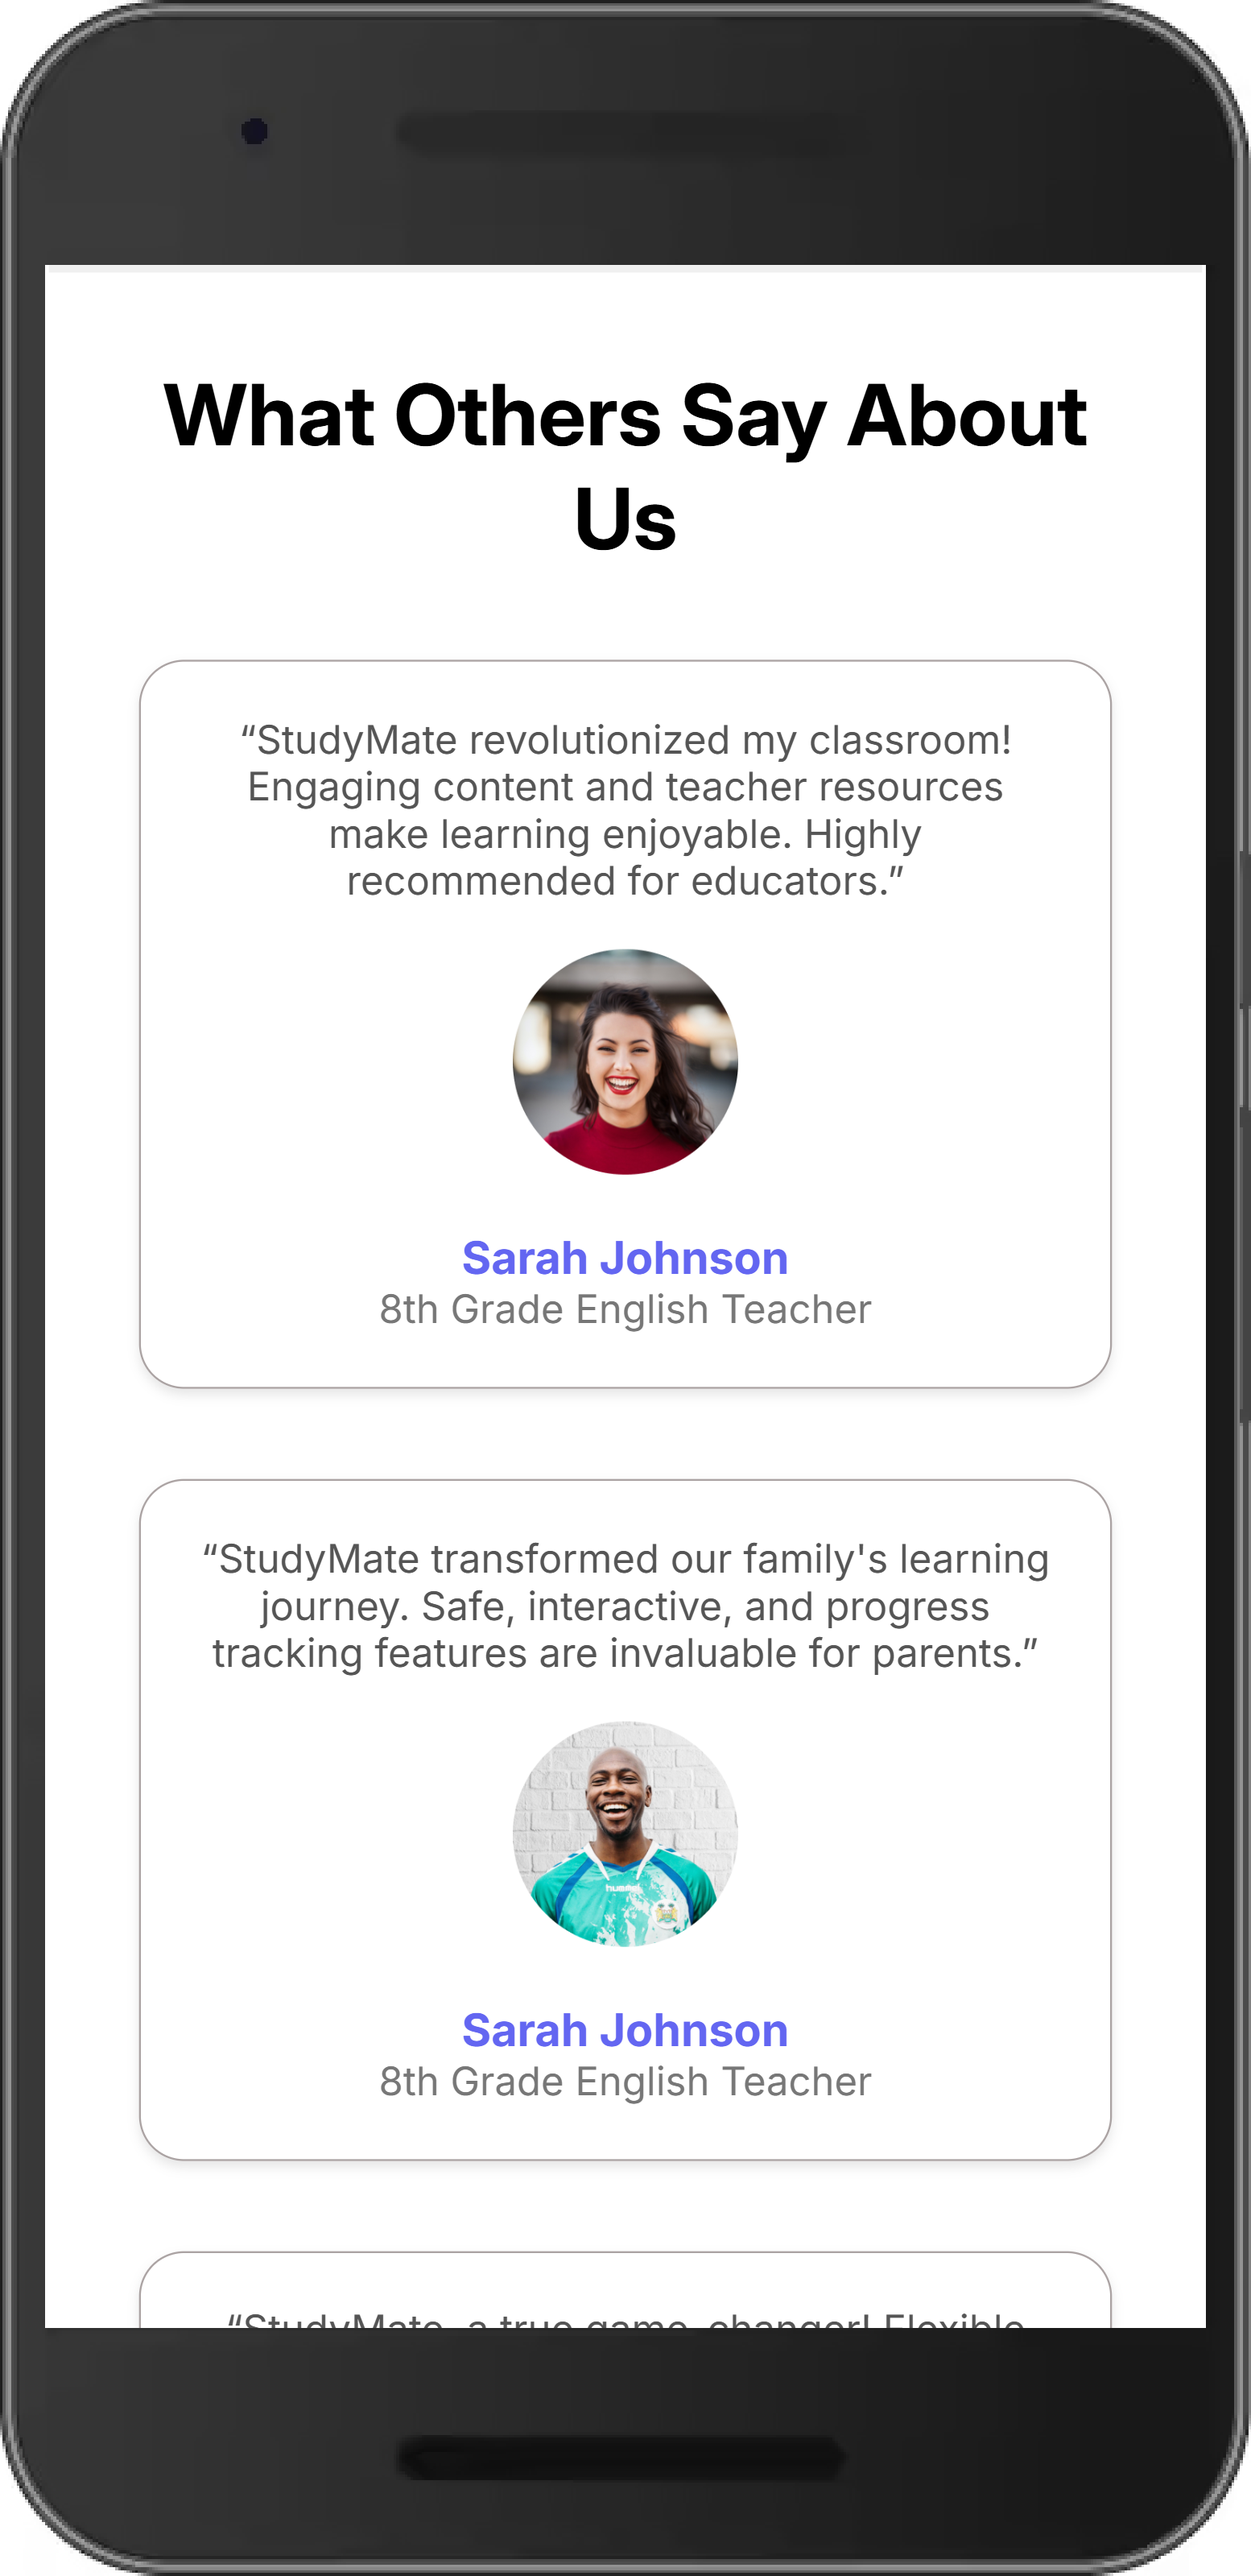
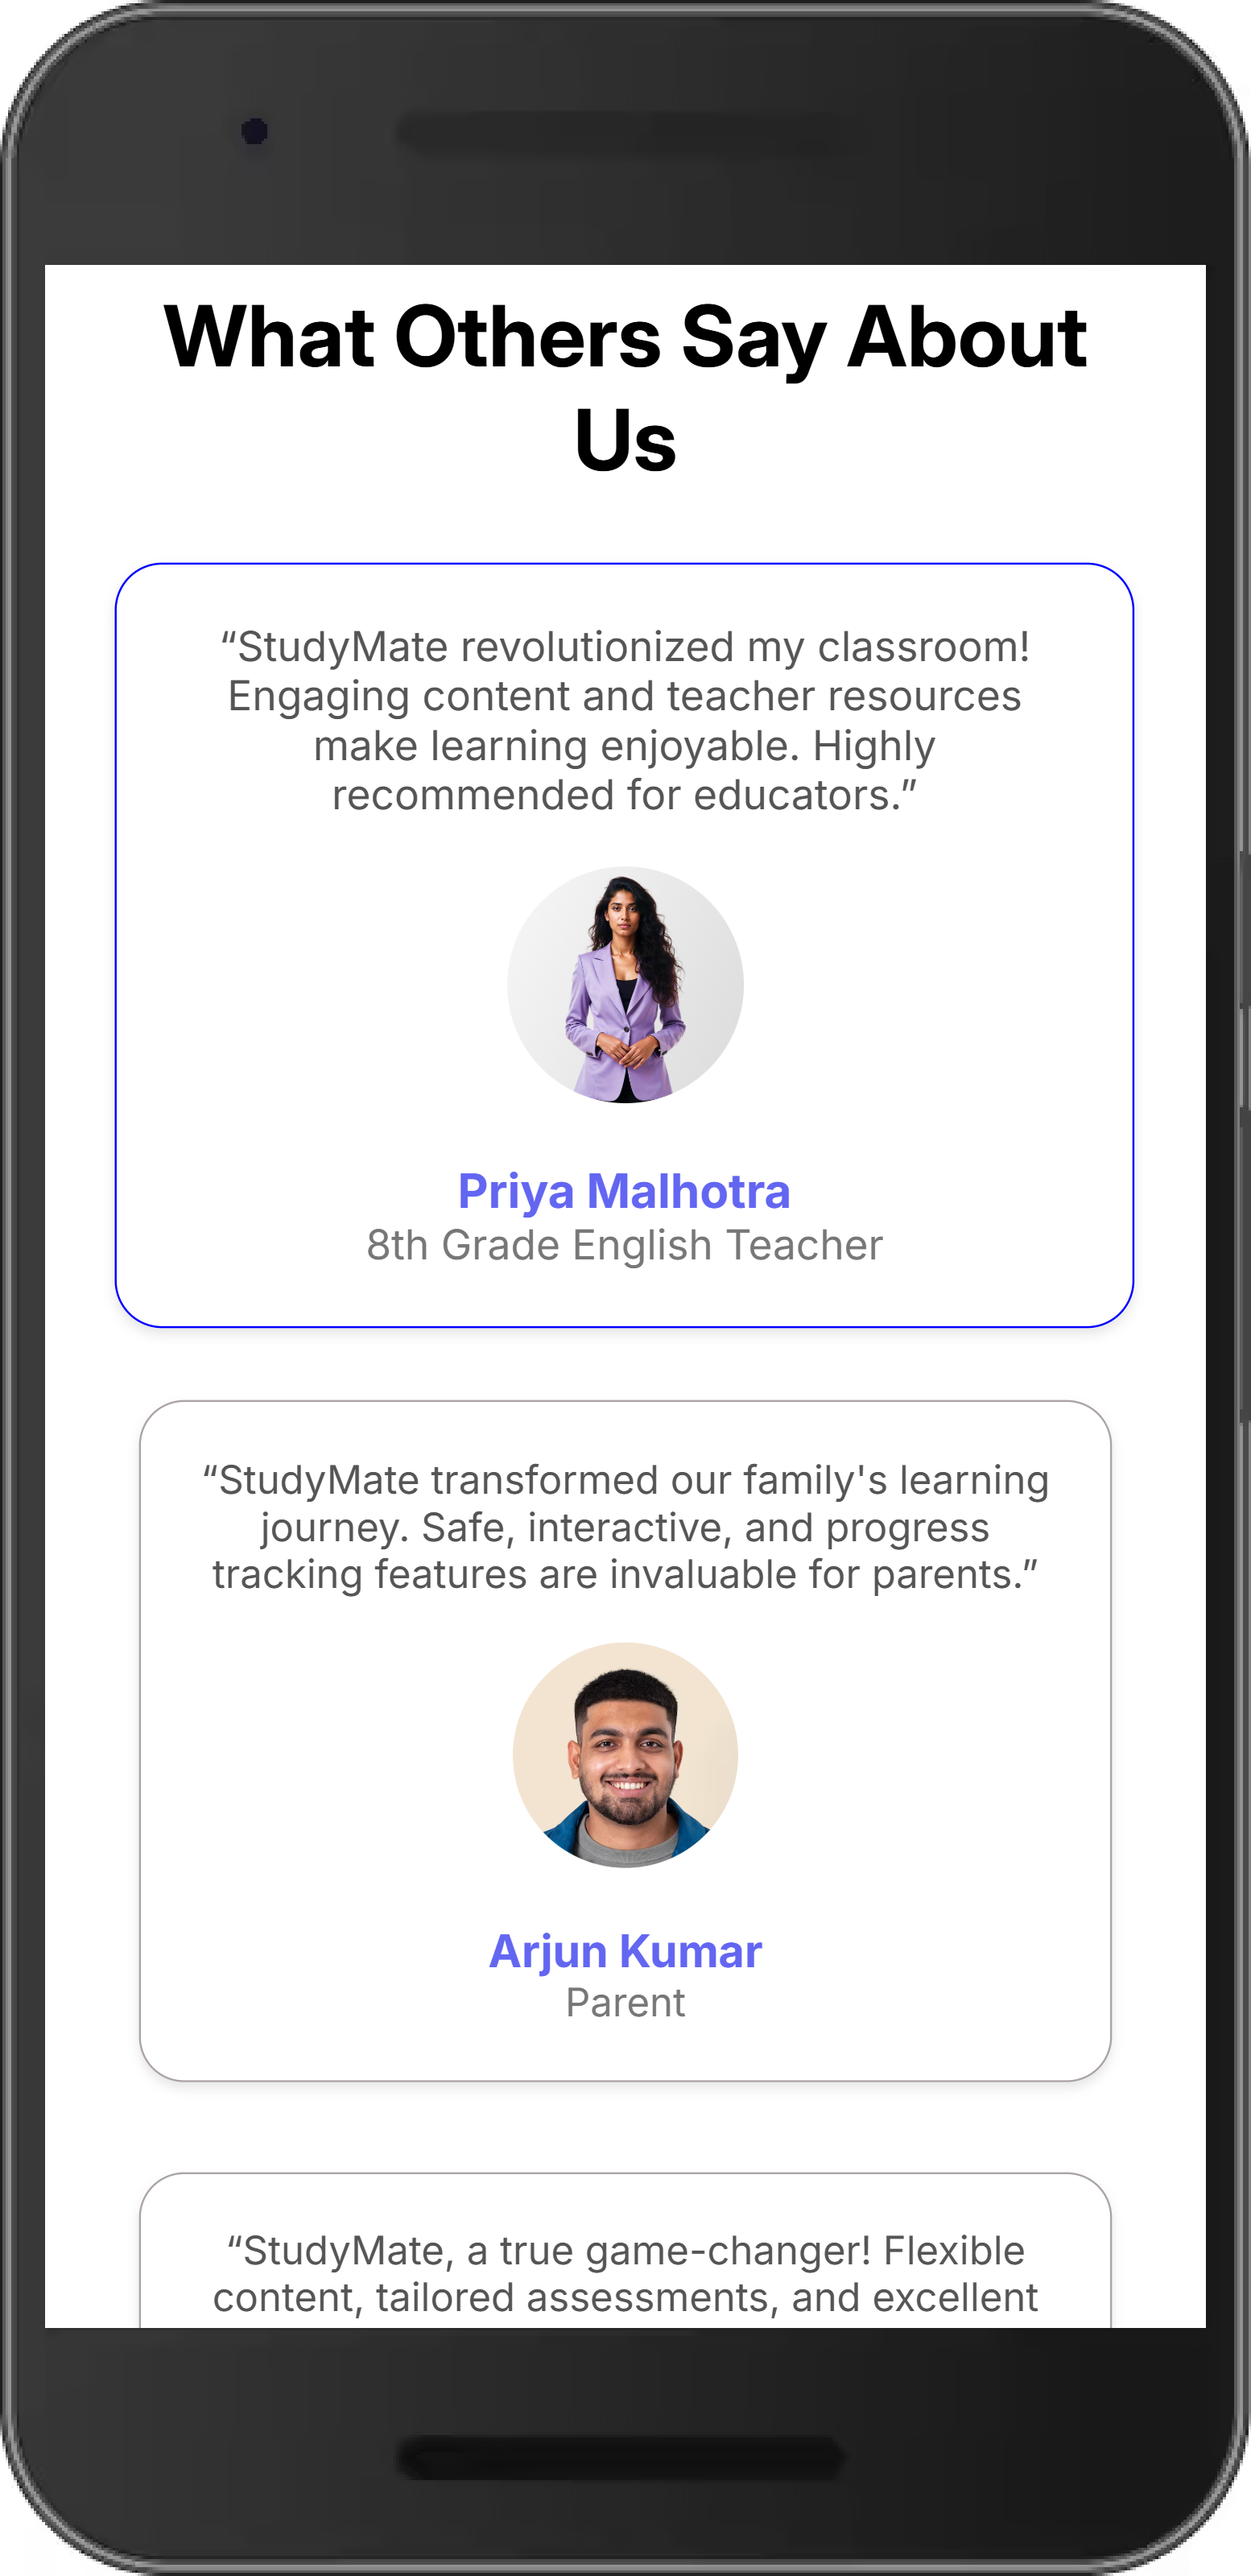
Made the footer section more responsive for smaller screen

diff --git a/index.html b/index.html
@@ -203,7 +203,7 @@
               <img src="./images/avatar1.png" />
             </div>
             <div class="testimonial-details">
-              <h3 class="testimonial-name">Sarah Johnson</h3>
+              <h3 class="testimonial-name">Priya Malhotra</h3>
               <p class="testimonial-desc">8th Grade English Teacher</p>
             </div>
           </div>
@@ -218,23 +218,22 @@
               <img src="./images/avatar2.png" />
             </div>
             <div class="testimonial-details">
-              <h3 class="testimonial-name">Sarah Johnson</h3>
-              <p class="testimonial-desc">8th Grade English Teacher</p>
+              <h3 class="testimonial-name">Arjun Kumar</h3>
+              <p class="testimonial-desc">Parent</p>
             </div>
           </div>
           <!-- card 3 -->
           <div class="testimonial-card">
             <div class="testimonial-text">
               “StudyMate, a true game-changer! Flexible content, tailored
-              assessments, and excellent support. Integral to our school
-              district's success.”
+              assessments, and excellent support. Integral to our College's success.”
             </div>
             <div class="testimonial-avatar">
               <img src="./images/avatar3.png" />
             </div>
             <div class="testimonial-details">
-              <h3 class="testimonial-name">Sarah Johnson</h3>
-              <p class="testimonial-desc">8th Grade English Teacher</p>
+              <h3 class="testimonial-name">Rahul Mani</h3>
+              <p class="testimonial-desc">College Professor</p>
             </div>
           </div>
         </div>
@@ -246,7 +245,7 @@
     <div class="news-container">
       <div class="news-content">
         <div class="news-content-left">
-          <img src="images/img.png" loading="lazy" alt="" class="news-img" />
+          <img src="images/newsletter.png" loading="lazy" alt="" class="news-img" />
         </div>
         <div class="news-content-right">
           <div class="news-info">
@@ -279,16 +278,16 @@
           </div>
           <p class="filler-text">Seamless Learning for Brighter Futures.</p>
           <div class="social">
-            <a class="social-link" href="#">
+            <a class="social-link" href="#instagram">
               <img src="./images/instagram.svg" class="social-icon" />
             </a>
-            <a class="social-link">
+            <a class="social-link" href="#linkedin">
               <img src="./images/linkedin.svg" class="social-icon" />
             </a>
-            <a class="social-link">
+            <a class="social-link" href="microsoft">
               <img src="./images/Microsoft.svg" class="social-icon" />
             </a>
-            <a class="social-link">
+            <a class="social-link" href="twitter">
               <img src="./images/twitter.svg" class="social-icon" />
             </a>
           </div>

diff --git a/style.css b/style.css
@@ -746,6 +746,7 @@ ul{
         align-self: center;
         justify-content: space-evenly;
     }
+   
 }
 
 @media screen and (max-width:850px) {
@@ -754,5 +755,20 @@ ul{
     }
     .footer-grid{
         grid-template-columns: repeat(2,1fr);
+        grid-gap:1rem;
+    }
+
+    .logo-link{
+        display: flex;
+        flex-direction: column;
+    }
+
+    .logo-svg{
+        width: 2rem;
+        height: 3rem;
+    }
+
+    .filler-text{
+        margin-top: 1rem;
     }
 }

diff --git a/README.md b/README.md
@@ -31,6 +31,8 @@ Desktop views :
 ![Desktop 1](screenshots/Screenshot333.png)
 ![Desktop 2](screenshots/Screenshot334.png)
 ![Desktop 3](screenshots/Screenshot335.png)
+![Desktop 4](screenshots/Screenshot336.png)
+
 
 Mobile / Phone views :
 
